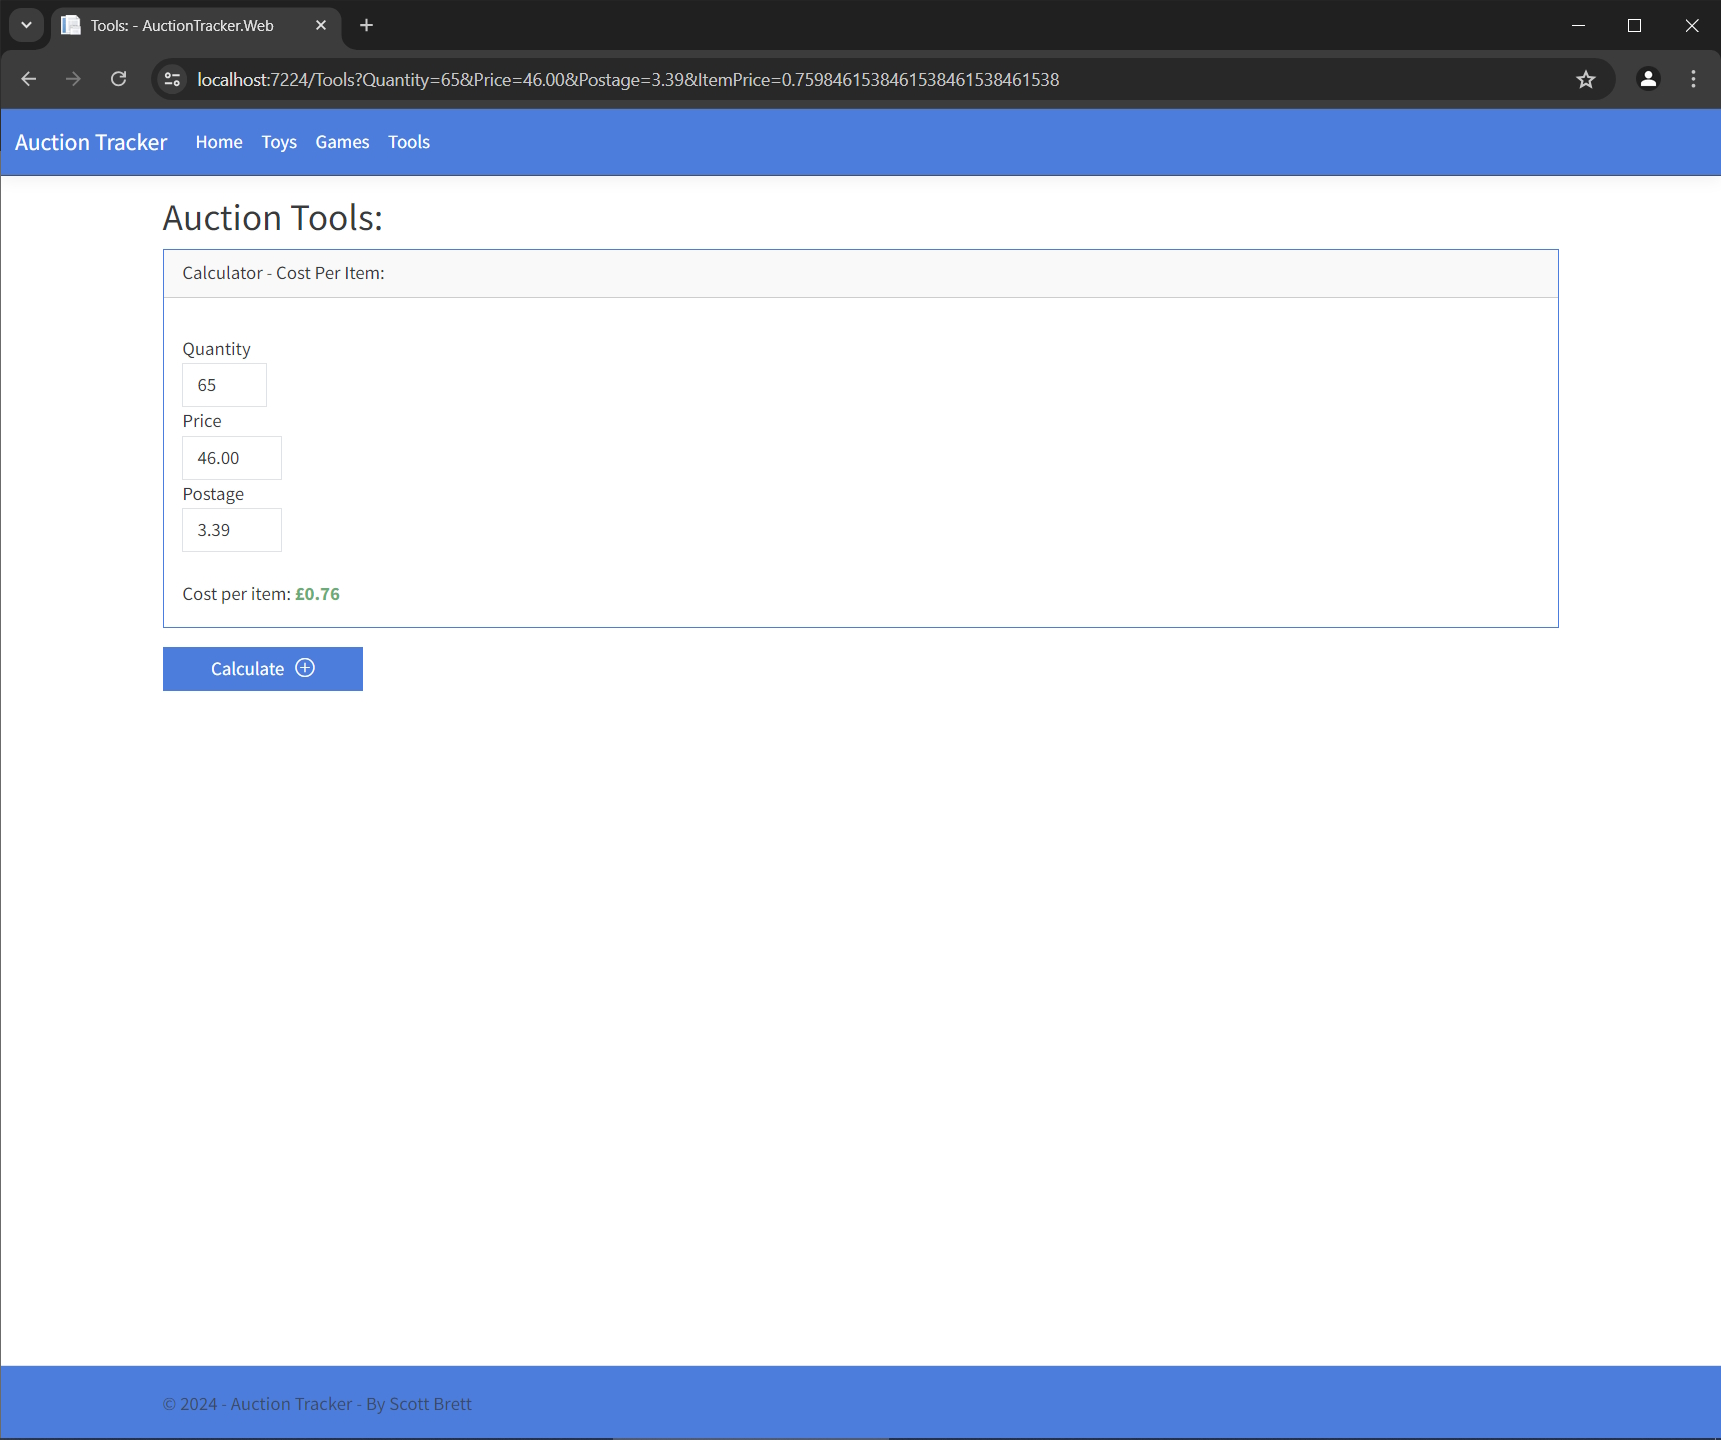
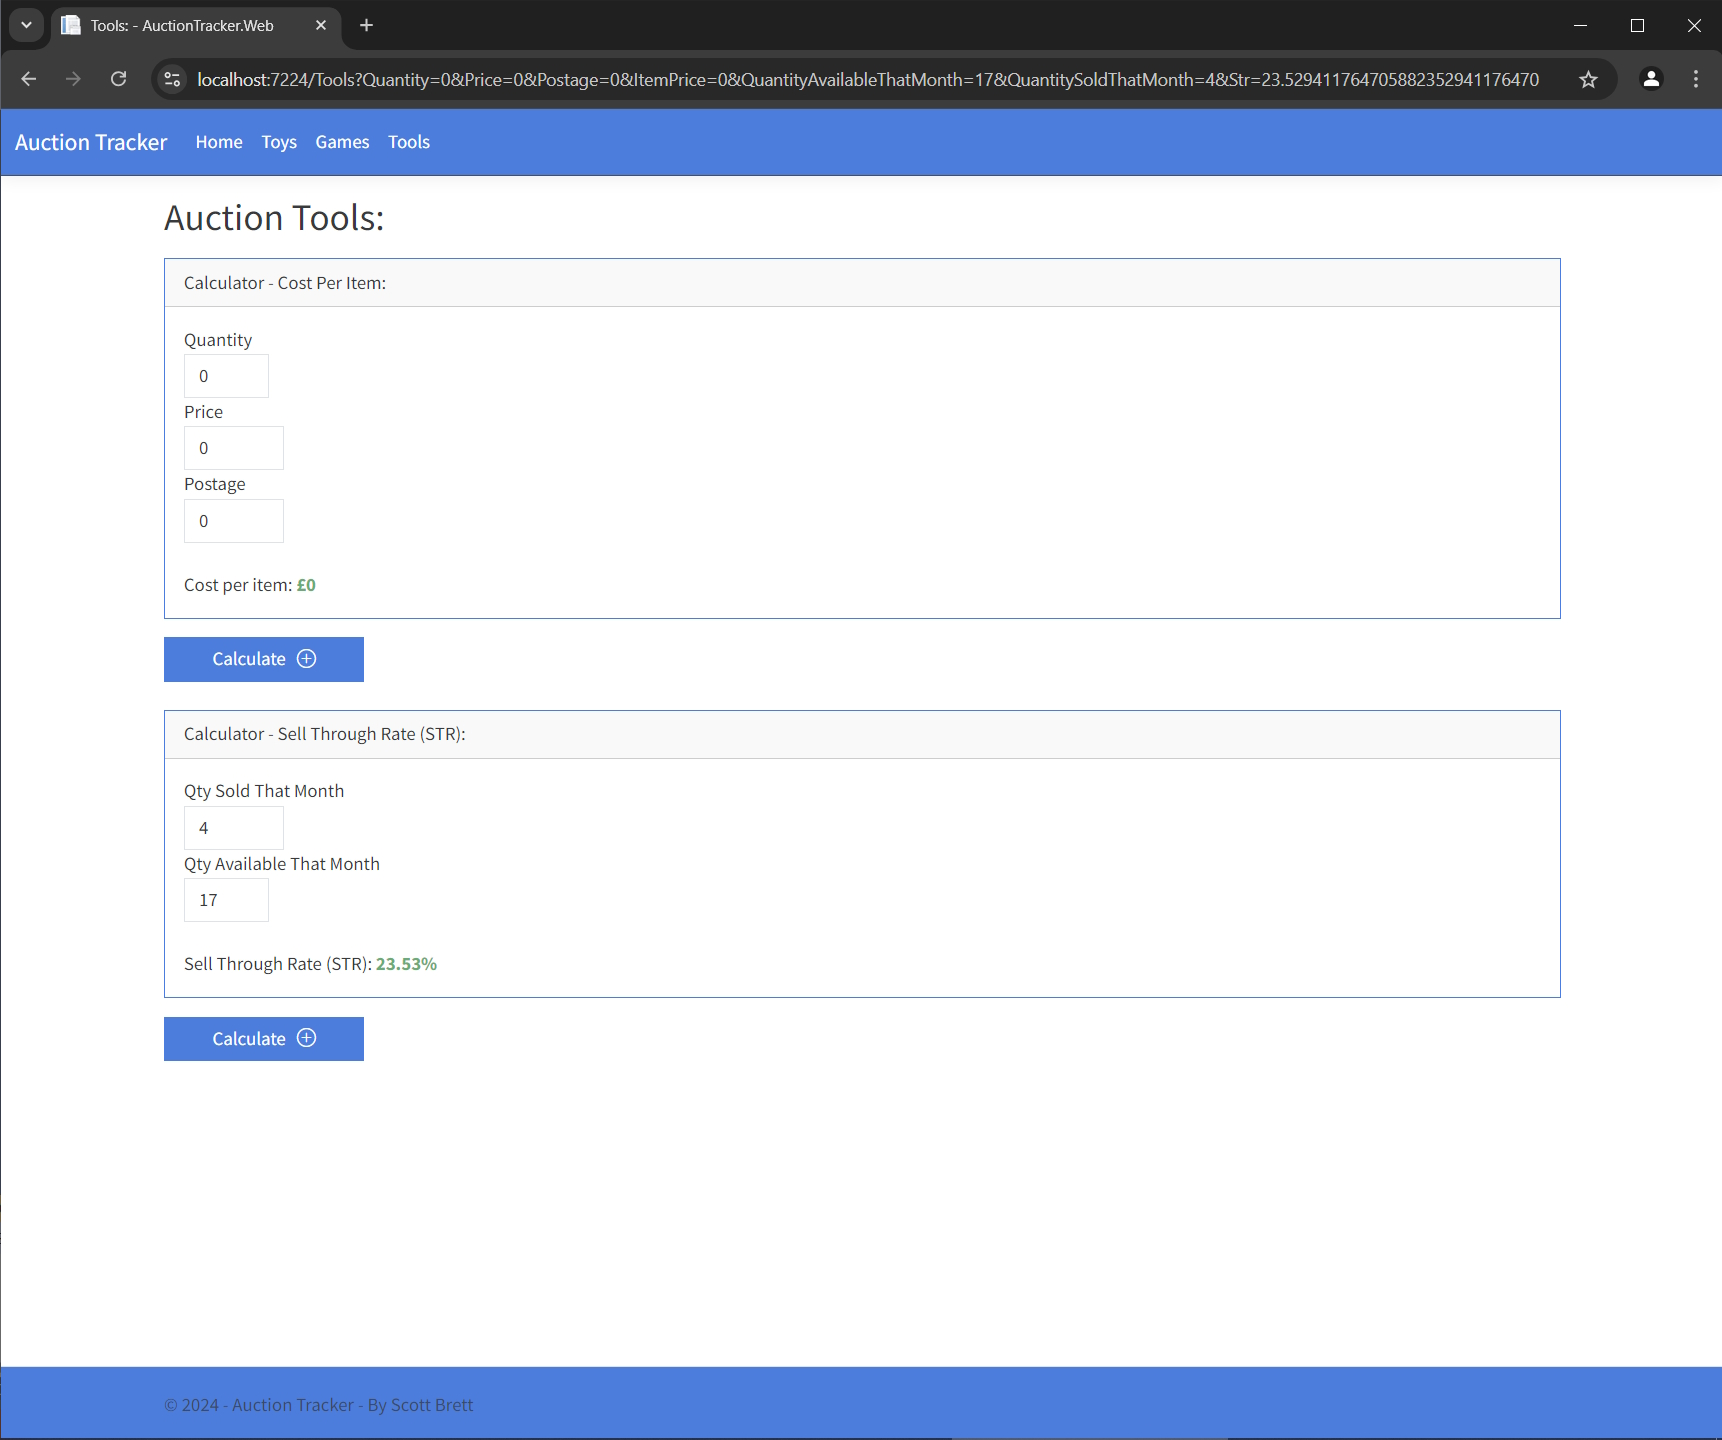
Addition of sell through rate calculator to the tools section.  Also addition of updated image

diff --git a/AuctionTracker.Web/Class/Validation.cs b/AuctionTracker.Web/Class/Validation.cs
@@ -8,6 +8,25 @@ namespace AuctionTracker.Web.Class
     {
         private IGeneralHelper _generalHelper = new GeneralHelper();
 
+        public bool ValidateSellThroughRate(ModelStateDictionary modelState, PricePerItem pricePerItem)
+        {
+            bool pass = true;
+
+            if (pricePerItem.QuantitySoldThatMonth == 0)
+            {
+                pass = false;
+                modelState.AddModelError("Calculate", "No valid quantity sold that month.");
+            }
+
+            if (pricePerItem.QuantityAvailableThatMonth == 0)
+            {
+                pass = false;
+                modelState.AddModelError("Calculate", "No valid quantity available that month.");
+            }
+
+            return pass;
+        }
+
         public bool ValidatePricePerItem(ModelStateDictionary modelState, PricePerItem pricePerItem)
         {
             bool pass = true;

diff --git a/AuctionTracker.Web/Controllers/ToolsController.cs b/AuctionTracker.Web/Controllers/ToolsController.cs
@@ -30,5 +30,22 @@ namespace AuctionTracker.Web.Controllers
 
             return View("Index", pricePerItem);
         }
+
+        //POST
+        [HttpPost]
+        [ValidateAntiForgeryToken]
+        public IActionResult CalculateStr(PricePerItem pricePerItem)
+        {
+            bool pass = _validation.ValidateSellThroughRate(ModelState, pricePerItem);
+
+            if (ModelState.IsValid && pass)
+            {
+                pricePerItem.Str = ((decimal)pricePerItem.QuantitySoldThatMonth / pricePerItem.QuantityAvailableThatMonth) * 100;
+
+                return RedirectToAction("Index", "Tools", pricePerItem);
+            }
+
+            return View("Index", pricePerItem);
+        }
     }
 }

diff --git a/AuctionTracker.Web/Models/PricePerItem.cs b/AuctionTracker.Web/Models/PricePerItem.cs
@@ -2,9 +2,16 @@
 {
     public class PricePerItem
     {
+        // Price Per Item:
         public Int32 Quantity { get; set; }
         public decimal Price { get; set; }
         public decimal Postage { get; set; }
         public decimal ItemPrice { get; set; }
+
+
+        // Sell Through Rate:
+        public Int32 QuantityAvailableThatMonth { get; set; }
+        public Int32 QuantitySoldThatMonth { get; set; }
+        public decimal Str { get; set; }
     }
 }

diff --git a/AuctionTracker.Web/Interfaces/IValidation.cs b/AuctionTracker.Web/Interfaces/IValidation.cs
@@ -9,5 +9,6 @@ namespace AuctionTracker.Web.Interfaces
         bool ValidateToy(ModelStateDictionary modelState, Toy toy);
 
         bool ValidatePricePerItem(ModelStateDictionary modelState, PricePerItem pricePerItem);
+        bool ValidateSellThroughRate(ModelStateDictionary modelState, PricePerItem pricePerItem);
     }
 }
